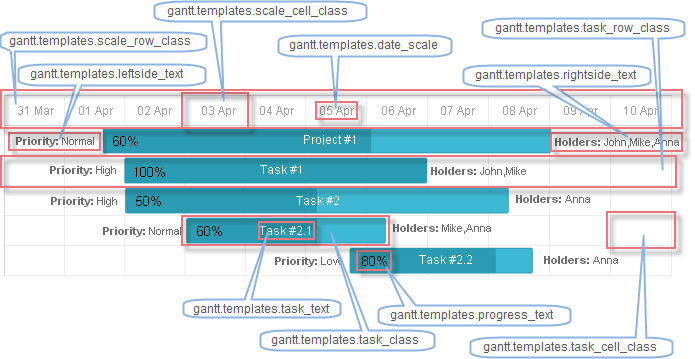
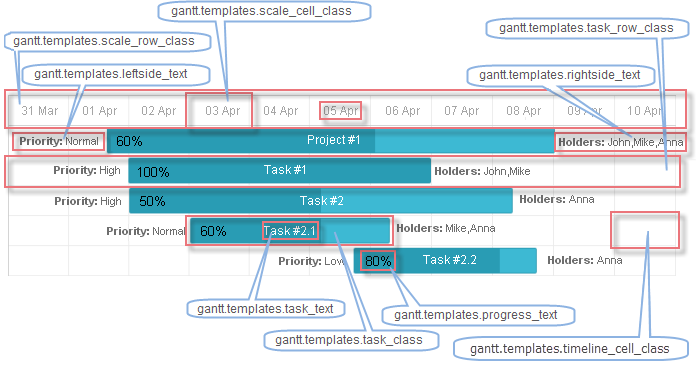
[update] rename task_cell_class to timeline_cell_class in missed places

diff --git a/data/desktop/styling_guide.md b/data/desktop/styling_guide.md
@@ -404,7 +404,7 @@ gantt.templates.task_row_class = function(start, end, task){
 
 ###Highlighting timeline cells
 
-You can highlight the necessary timeline cells, depending on the day of the week with the **task_cell_class** template. The template function will iterate over the cells and apply the desired CSS
+You can highlight the necessary timeline cells, depending on the day of the week with the **timeline_cell_class** template. The template function will iterate over the cells and apply the desired CSS
 class to the specified cells. For example, you can highlight weekends as in:
 
 ~~~js
@@ -416,7 +416,7 @@ class to the specified cells. For example, you can highlight weekends as in:
 ~~~
 
 ~~~js
-gantt.templates.task_cell_class = function(item,date){
+gantt.templates.timeline_cell_class = function(item,date){
 	if(date.getDay()==0||date.getDay()==6){
 		return "weekend"
 	}

diff --git a/data/desktop/timeline_templates.md b/data/desktop/timeline_templates.md
@@ -45,4 +45,3 @@ Templates of the Timeline Area
 
 <img src="desktop/templates_01.png"/>
 
-@todo: update the image: task -> timeline_cell_class, remove date_class
